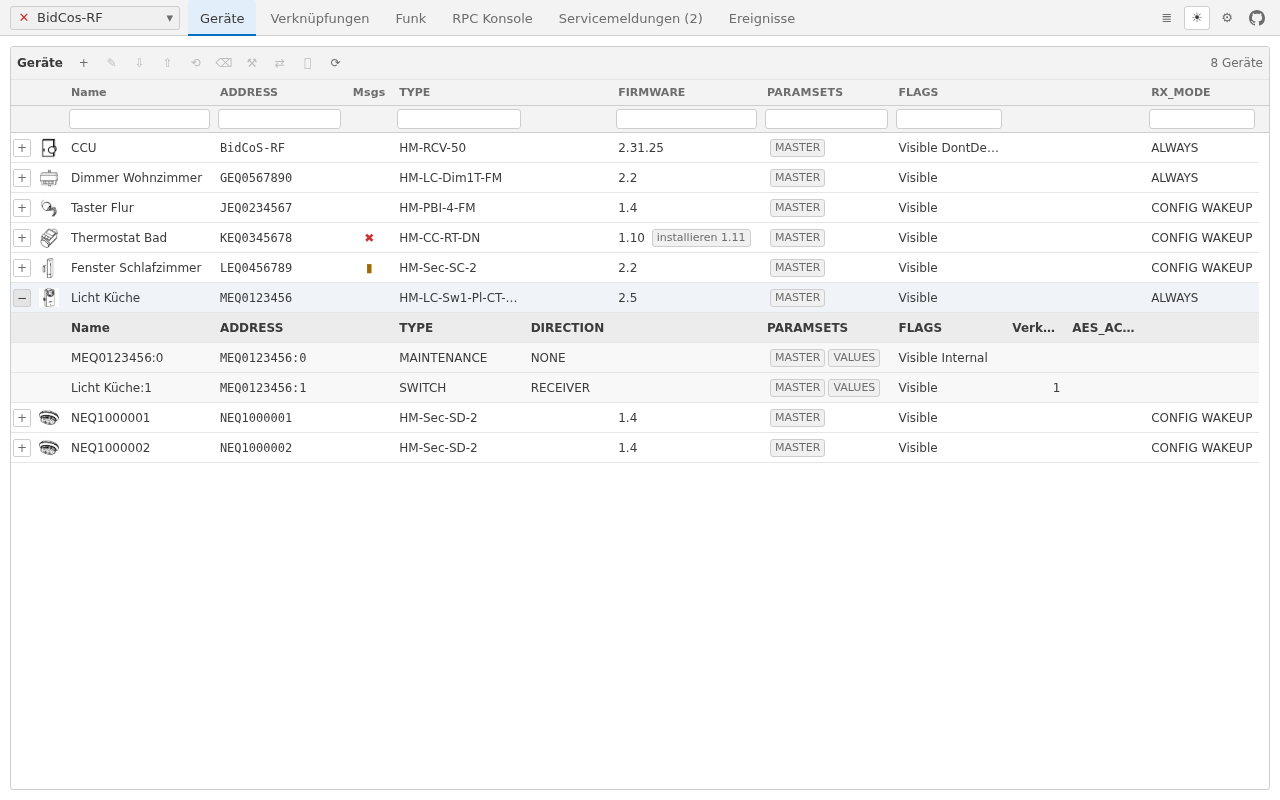
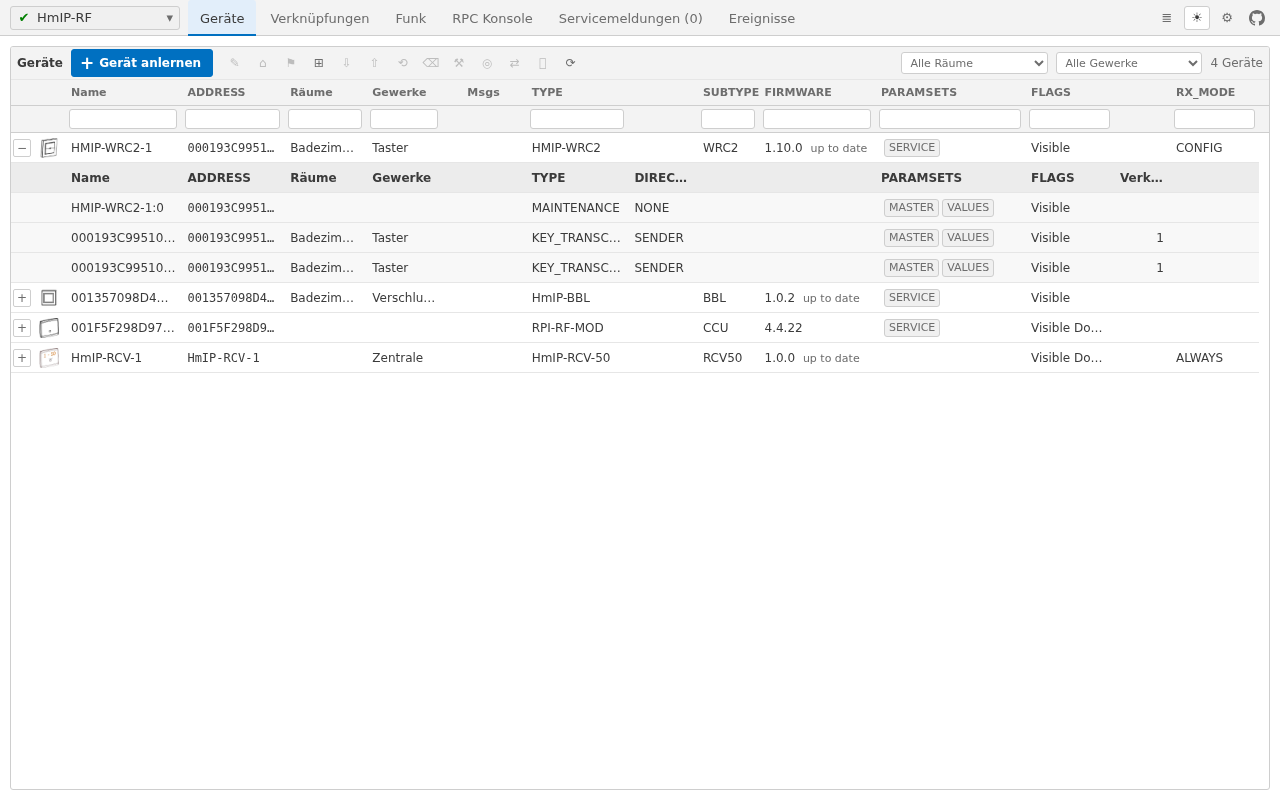
Readme: current screenshots, installation first
The installation table is what a visitor looks for, so it now follows the
intro directly; the "Version 3.0.0 ist erschienen" note (and its English
twin) is gone - 3.1 is out and the release page is linked from the table.

The screenshots are new and from real devices instead of the demo fixture:
the Devices tab with an HmIP-WRC2 open and a WRC2 -> HmIP-BBL direct link in
easy mode, taken from the 3.1 addon on a lab installation, and a thermostat's
week programme (HM-CC-RT-DN) from the web host against hm-simulator's fixture
with the device's real paramset descriptions, as no thermostat was paired in
the lab. docs/README.md says where each comes from and that
npm run screenshots still produces the demo set.

diff --git a/Readme.md b/Readme.md
@@ -15,26 +15,6 @@ Eine ausführliche Beschreibung der 2.x-Oberfläche steht im
 
 <br clear="left"/>
 
-> **Version 3.0.0 ist erschienen.**
-> Das letzte 2.x-Release ist **2.7.1** (2023-01-28), eine reine Electron-App. Version
-> 3.0 ist ein Neubau auf aktuellem Electron, Svelte 5 und einem getesteten TypeScript-Kern und
-> läuft zusätzlich als Server und als CCU-Addon. Die Entwicklung findet auf `master` statt, der
-> 2.7.1-Stand ist der Tag [`2.7.1`](https://github.com/hobbyquaker/homematic-manager/tree/2.7.1).
-> Das aktuelle Release steht unter [Releases](https://github.com/hobbyquaker/homematic-manager/releases/latest), mit
-> Installern für Windows, macOS und Linux, den drei CCU-Addon-Paketen, dem Docker-Image und dem npm-Paket
-> (`npm install -g homematic-manager`). Bekannte Probleme stehen in den Release-Notes.
-
-| hell | dunkel (D-22) |
-| --- | --- |
-| [![Geräte](docs/hmm1.png)](docs/hmm1.png) | [![Geräte, dunkel](docs/hmm1-dark.png)](docs/hmm1-dark.png) |
-| [![Paramset-Editor mit Vorschau](docs/hmm2.png)](docs/hmm2.png) | [![Paramset-Editor mit Vorschau, dunkel](docs/hmm2-dark.png)](docs/hmm2-dark.png) |
-| [![Verknüpfungen](docs/hmm3.png)](docs/hmm3.png) | [![Verknüpfungen, dunkel](docs/hmm3-dark.png)](docs/hmm3-dark.png) |
-
-_Oben die Geräteliste mit aufgeklappter Kanaltabelle, in der Mitte der Paramset-Editor mit der
-Schreibvorschau (es wird nur geschrieben, was geändert wurde), unten die Verknüpfungen mit dem
-Easy-Mode-Dialog. Die Bilder entstehen aus der laufenden 3.0-Oberfläche im Demo-Modus
-(`npm run screenshots`), nicht aus einer Installation — die Geräte darin sind erfunden._
-
 ## Installation
 
 Alle Installationsarten führen **dasselbe Backend und dieselbe Oberfläche** aus und benutzen
@@ -72,6 +52,20 @@ reines Node.
   im LAN, damit erreicht die CCU den Callback ohne NAT und ohne Portfreigabe.
 - **Docker** geht auch, ist aber wegen des Callbacks der fummeligste Weg — die Seite dazu sagt,
   worauf zu achten ist.
+
+## Bilder
+
+| hell | dunkel |
+| --- | --- |
+| [![Geräte](docs/hmm1.png)](docs/hmm1.png) | [![Geräte, dunkel](docs/hmm1-dark.png)](docs/hmm1-dark.png) |
+| [![Direktverknüpfung im Easy Mode](docs/hmm2.png)](docs/hmm2.png) | [![Direktverknüpfung im Easy Mode, dunkel](docs/hmm2-dark.png)](docs/hmm2-dark.png) |
+| [![Wochenprogramm eines Heizkörperthermostats](docs/hmm3.png)](docs/hmm3.png) | [![Wochenprogramm eines Heizkörperthermostats, dunkel](docs/hmm3-dark.png)](docs/hmm3-dark.png) |
+
+_Oben die Geräteliste mit aufgeklappter Kanaltabelle, in der Mitte eine Direktverknüpfung
+(Wandtaster → Jalousieaktor) im Easy Mode, unten das Wochenprogramm eines Heizkörperthermostats
+(HM-CC-RT-DN). Die oberen beiden Bilder stammen aus einer Laborinstallation mit echten Geräten, das
+Wochenprogramm aus dem [hm-simulator](https://github.com/hobbyquaker/hm-simulator) mit den
+Paramset-Beschreibungen des echten Geräts._
 
 ## Funktionsübersicht
 
@@ -200,13 +194,6 @@ HomematicIP devices: pair and unpair devices, edit device and channel configurat
 create and maintain direct links, judge radio quality (RSSI), acknowledge service messages, watch
 the live event stream and call any RPC method by hand. The user interface is German and English.
 
-**Version 3.0.0 is released.** 2.7.1 (2023-01-28) is the last 2.x release and is a
-desktop app only; 3.0 is a rebuild on current Electron, Svelte 5 and a tested
-TypeScript core that additionally runs as a server and as a CCU addon. Work happens on `master`;
-the 2.7.1 sources are the tag [`2.7.1`](https://github.com/hobbyquaker/homematic-manager/tree/2.7.1). The current release is on the
-[releases](https://github.com/hobbyquaker/homematic-manager/releases/latest) page, with the Windows, macOS and Linux
-installers, the three CCU addon packages, the Docker image and the npm package (`npm install -g homematic-manager`).
-
 Every install type runs the same backend and the same UI and shares one configuration format, so
 moving between them is a copy (D-25):
 
@@ -214,7 +201,7 @@ moving between them is a copy (D-25):
 | --- | --- | --- | --- |
 | [CCU addon](docs/install-addon.md) | CCU3, ELV-Charly, OpenCCU — `armv7l`, `aarch64`, `x86_64` | `hmm-ccu-<arch>-<version>.tar.gz`, uploaded in _Systemsteuerung → Zusatzsoftware_ | `/usr/local/hmm/config.json` |
 | [Addon on openccu-lite](docs/openccu-lite.md) | [openccu-lite](https://github.com/hobbyquaker/openccu-lite), the CCU firmware without ReGaHSS — `aarch64`, `x86_64` | installed from the system's addon catalogue (_Addons → Catalogue_); the same package as on a CCU | `/usr/local/hmm/config.json` |
-| [Desktop app](docs/install-electron.md) | Windows 10+, macOS 12+, Linux glibc 2.31+ | installer / AppImage / deb / dmg from the release | `%APPDATA%\Homematic Manager`, `~/Library/Application Support/Homematic Manager`, `~/.config/Homematic Manager` |
+| [Desktop app](docs/install-electron.md) | Windows 10+, macOS 12+, Linux glibc 2.31+ | installer / AppImage / deb / dmg from the [release](https://github.com/hobbyquaker/homematic-manager/releases/latest) | `%APPDATA%\Homematic Manager`, `~/Library/Application Support/Homematic Manager`, `~/.config/Homematic Manager` |
 | [Server in an LXC](docs/install-lxc.md) (recommended) | Proxmox / Debian 12+ / any Linux with Node ≥ 22.12 | `npm install -g homematic-manager` then `homematic-manager-web --install` | `/var/lib/homematic-manager/config.json` |
 | [Docker](docs/install-docker.md) | `amd64`, `arm64`, `arm/v7` | `docker run … ghcr.io/hobbyquaker/homematic-manager:latest` | `/data/config.json` |
 

diff --git a/docs/README.md b/docs/README.md
@@ -76,8 +76,12 @@ For the maintainer; nothing here is run by an agent.
 ## Screenshots
 
 `hmm1.png`, `hmm2.png` and `hmm3.png` in this directory are the ones the README shows, and
-`hmm1-dark.png`, `hmm2-dark.png`, `hmm3-dark.png` are the same three in the dark theme (D-22).
-They are taken from the running 3.0 UI by [`../tools/screenshots.mjs`](../tools/screenshots.mjs)
-(`npm run screenshots`), which starts `apps/web` in `--demo` mode and drives chromium through the
-three workflows at 1280×800 in German. Nothing in them comes from a real installation. Re-run the
-script rather than editing an image; the header of the script says what each shot shows.
+`hmm1-dark.png`, `hmm2-dark.png`, `hmm3-dark.png` are the same three in the dark theme (D-22), all
+1280×800 in German. Since 3.1.2 they come from real devices rather than the demo fixture:
+`hmm1` is the Devices tab with an HmIP-WRC2's channels open and `hmm2` a WRC2 → HmIP-BBL direct
+link in easy mode, both from the addon on a lab installation; `hmm3` is the week programme of an
+HM-CC-RT-DN, from the web host against [hm-simulator](https://github.com/hobbyquaker/hm-simulator)'s
+fixture with the device's real paramset descriptions, because no thermostat was paired in the lab.
+[`../tools/screenshots.mjs`](../tools/screenshots.mjs) (`npm run screenshots`) still takes the
+earlier demo-mode set (`apps/web` in `--demo` mode); it overwrites these files unless given
+`--out <dir>`.
